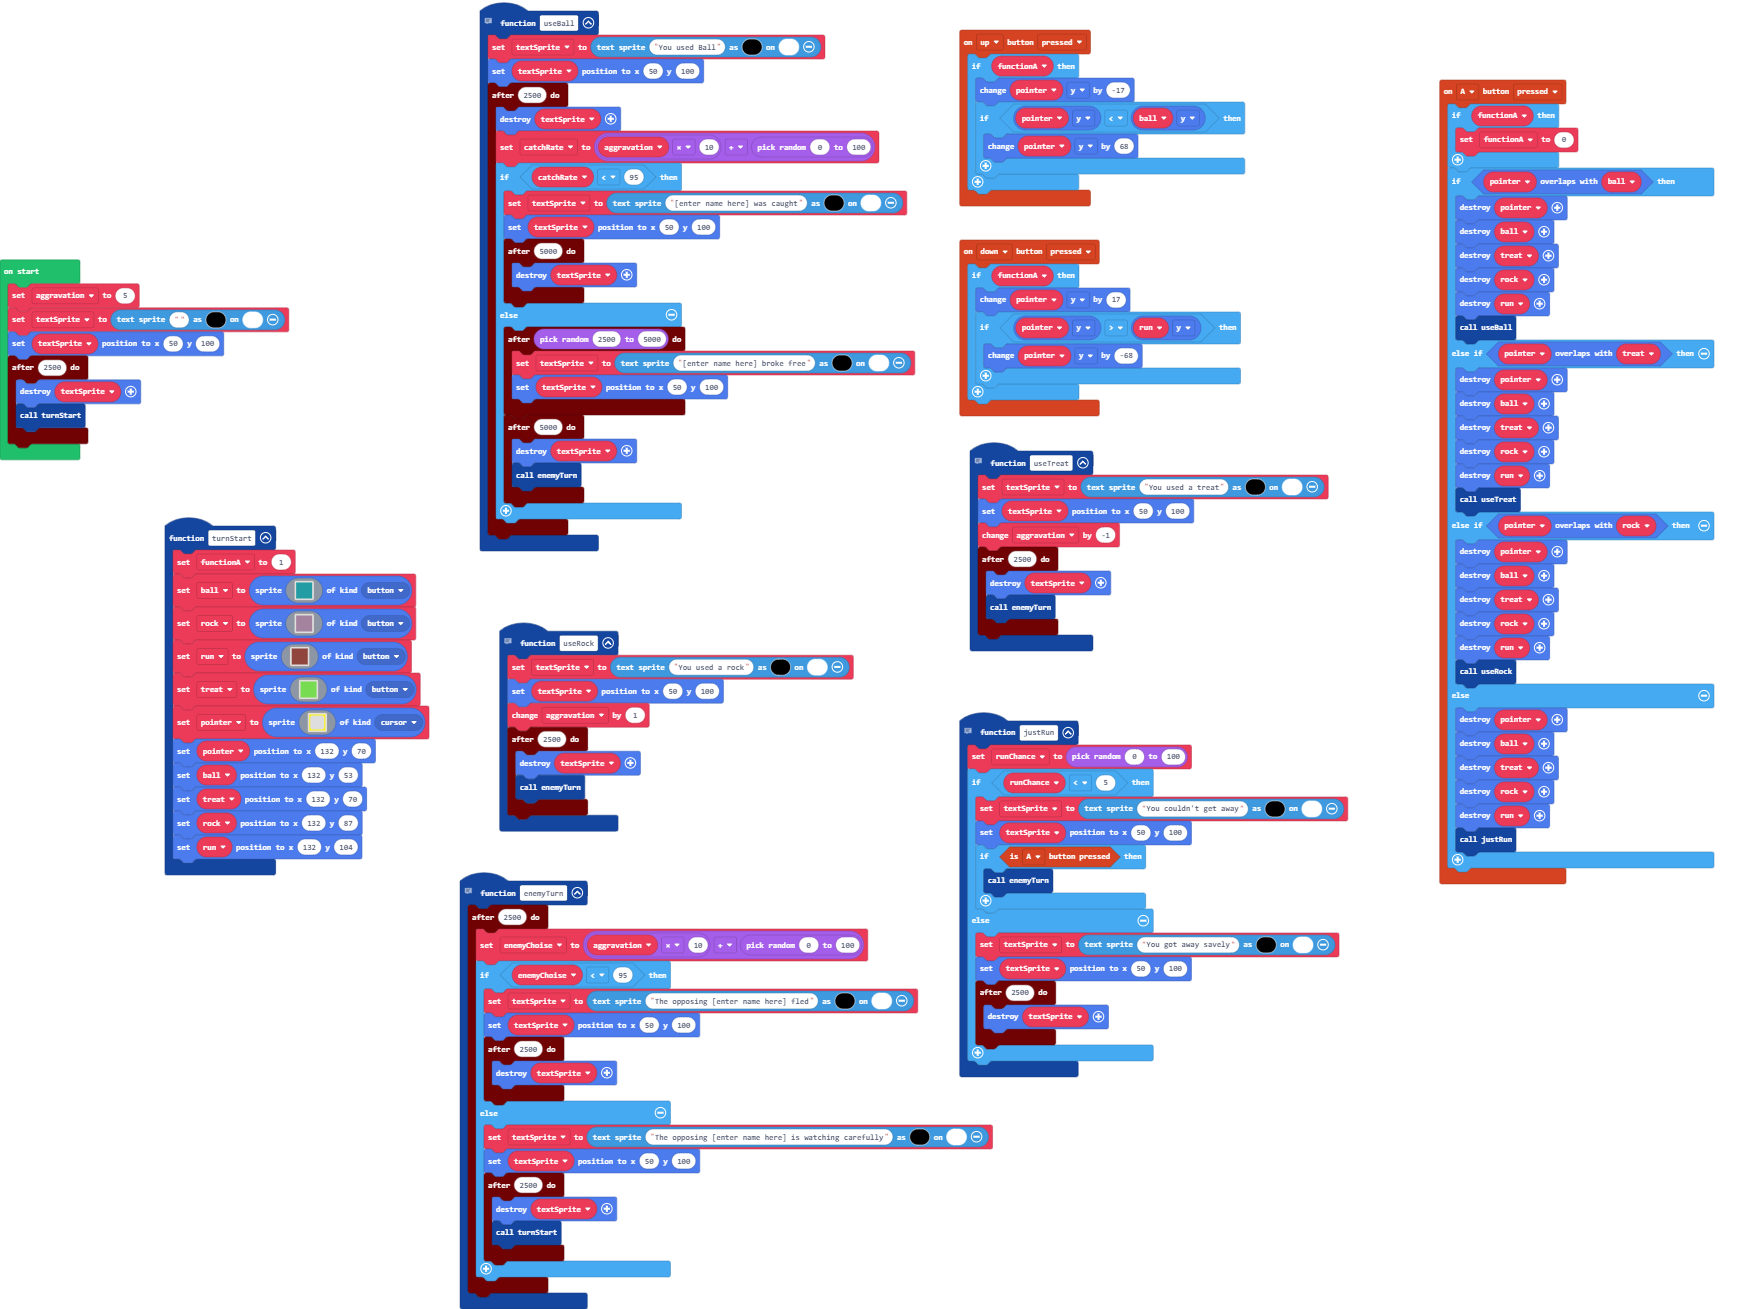
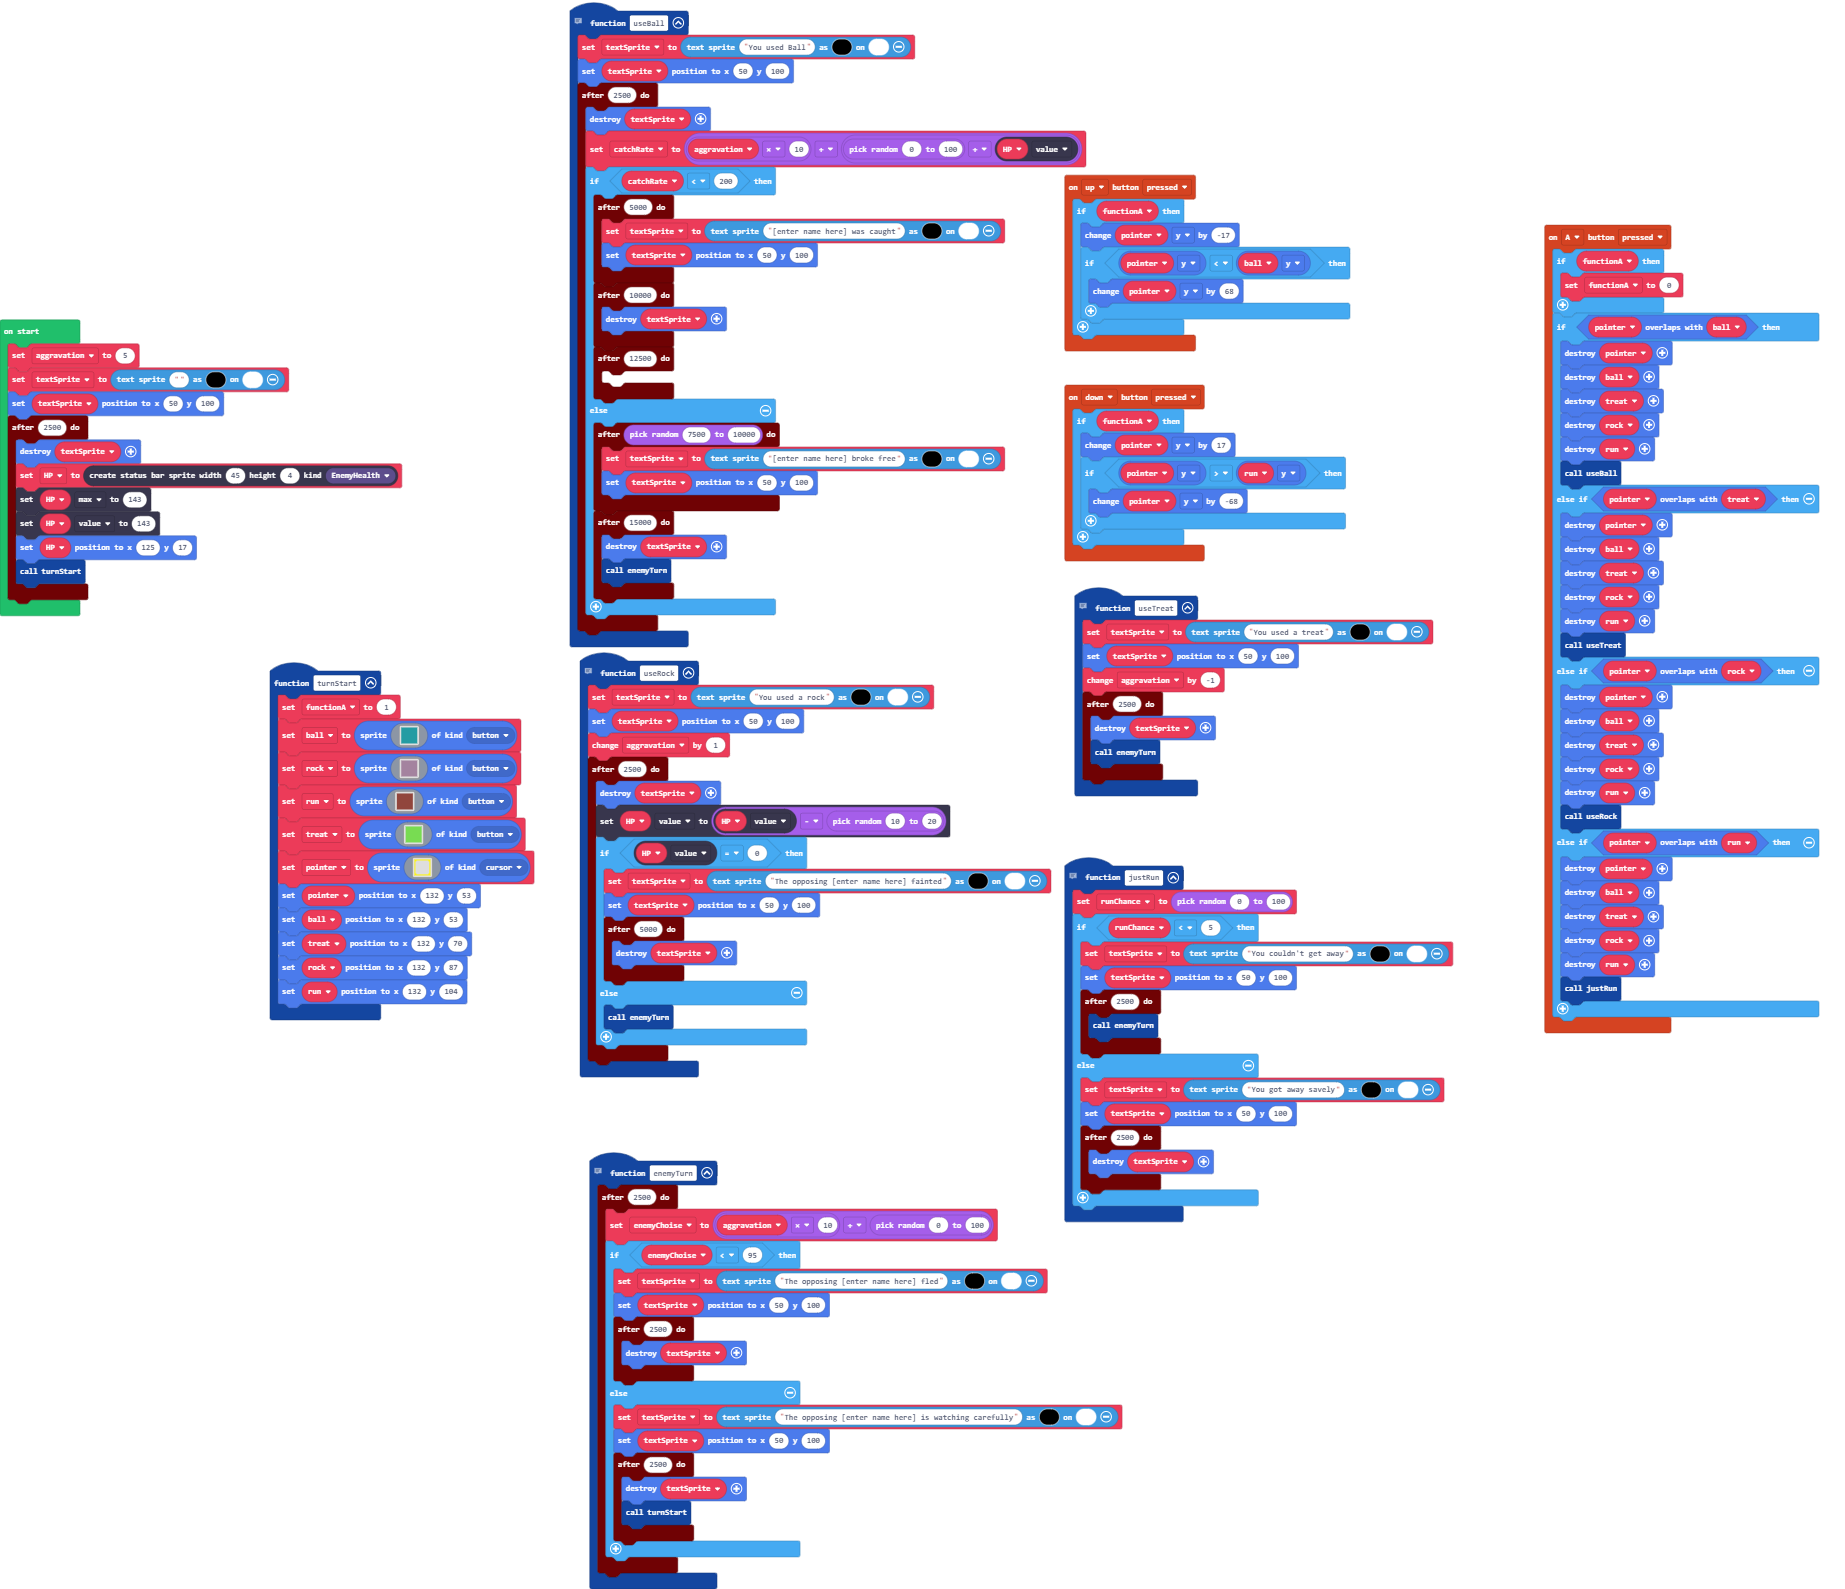
added a HP bar

diff --git a/main.ts b/main.ts
@@ -45,7 +45,7 @@ controller.A.onEvent(ControllerButtonEvent.Pressed, function () {
         rock.destroy()
         run.destroy()
         useRock()
-    } else {
+    } else if (pointer.overlapsWith(run)) {
         pointer.destroy()
         ball.destroy()
         treat.destroy()
@@ -61,7 +61,16 @@ function useRock () {
     aggravation += 1
     timer.after(2500, function () {
         textSprite.destroy()
-        enemyTurn()
+        HP.value = HP.value - randint(10, 20)
+        if (HP.value == 0) {
+            textSprite = textsprite.create("The opposing [enter name here] fainted", 1, 15)
+            textSprite.setPosition(50, 100)
+            timer.after(5000, function () {
+                textSprite.destroy()
+            })
+        } else {
+            enemyTurn()
+        }
     })
 }
 function turnStart () {
@@ -156,7 +165,7 @@ function turnStart () {
         5 5 . . . . . . . . . . . . 5 5 
         5 5 5 5 5 5 5 5 5 5 5 5 5 5 5 5 
         `, SpriteKind.cursor)
-    pointer.setPosition(132, 70)
+    pointer.setPosition(132, 53)
     ball.setPosition(132, 53)
     treat.setPosition(132, 70)
     rock.setPosition(132, 87)
@@ -168,9 +177,9 @@ function justRun () {
     if (runChance < 5) {
         textSprite = textsprite.create("You couldn't get away", 1, 15)
         textSprite.setPosition(50, 100)
-        if (controller.A.isPressed()) {
+        timer.after(2500, function () {
             enemyTurn()
-        }
+        })
     } else {
         textSprite = textsprite.create("You got away savely", 1, 15)
         textSprite.setPosition(50, 100)
@@ -213,19 +222,24 @@ function useBall () {
     textSprite.setPosition(50, 100)
     timer.after(2500, function () {
         textSprite.destroy()
-        catchRate = aggravation * 10 + randint(0, 100)
-        if (catchRate < 95) {
-            textSprite = textsprite.create("[enter name here] was caught", 1, 15)
-            textSprite.setPosition(50, 100)
+        catchRate = aggravation * 10 + (randint(0, 100) + HP.value)
+        if (catchRate < 200) {
             timer.after(5000, function () {
+                textSprite = textsprite.create("[enter name here] was caught", 1, 15)
+                textSprite.setPosition(50, 100)
+            })
+            timer.after(10000, function () {
                 textSprite.destroy()
             })
+            timer.after(12500, function () {
+            	
+            })
         } else {
-            timer.after(randint(2500, 5000), function () {
+            timer.after(randint(7500, 10000), function () {
                 textSprite = textsprite.create("[enter name here] broke free", 1, 15)
                 textSprite.setPosition(50, 100)
             })
-            timer.after(5000, function () {
+            timer.after(15000, function () {
                 textSprite.destroy()
                 enemyTurn()
             })
@@ -241,6 +255,7 @@ let treat: Sprite = null
 let ball: Sprite = null
 let pointer: Sprite = null
 let functionA = 0
+let HP: StatusBarSprite = null
 let textSprite: TextSprite = null
 let aggravation = 0
 aggravation = 5
@@ -248,5 +263,9 @@ textSprite = textsprite.create("", 1, 15)
 textSprite.setPosition(50, 100)
 timer.after(2500, function () {
     textSprite.destroy()
+    HP = statusbars.create(45, 4, StatusBarKind.EnemyHealth)
+    HP.max = 143
+    HP.value = 143
+    HP.setPosition(125, 17)
     turnStart()
 })
